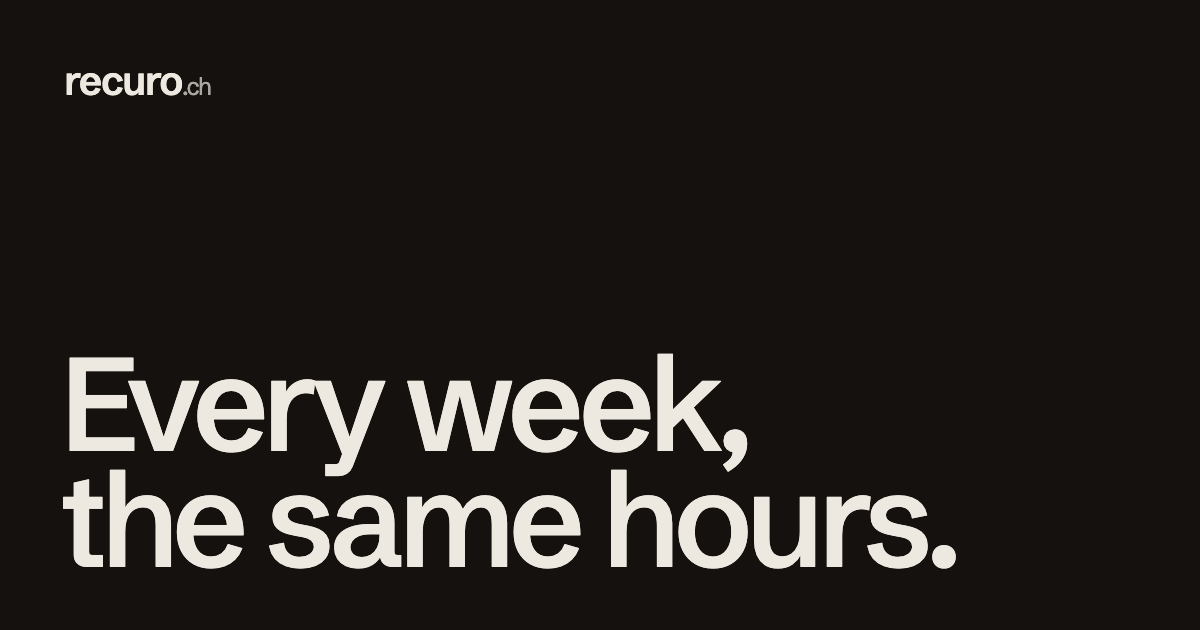
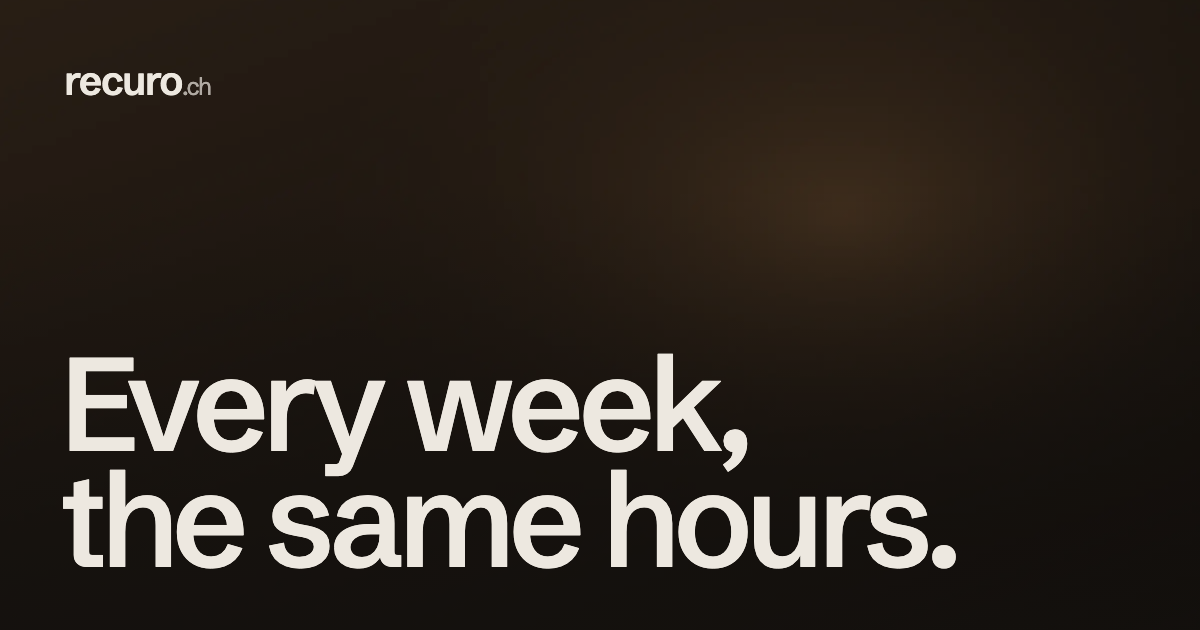
fix: read real Swiss inputs, flag unreadable fields, honest DE note, toggle a11y, block placeholder link preview

Changed region(s): [[0.5242, 0.1206, 0.8633, 0.4524]]

diff --git a/assets/js/main.js b/assets/js/main.js
@@ -11,7 +11,14 @@ let lang = pickLang(safeStorage.get('lang'), navigator.languages || [navigator.l
 const updateCalc = () => {
   if (!form || !result) return;
   const { hours, rate } = form.elements;
-  result.textContent = formatCHF(yearlyCost(parseNumber(hours.value), parseNumber(rate.value)), lang);
+  const [h, r] = [hours, rate].map((input) => {
+    const n = parseNumber(input.value);
+    // flag text we can't read; a blank field is just empty, not wrong
+    if (Number.isNaN(n) && input.value.trim()) input.setAttribute('aria-invalid', 'true');
+    else input.removeAttribute('aria-invalid');
+    return n;
+  });
+  result.textContent = formatCHF(yearlyCost(h, r), lang);
 };
 
 const render = () => {
@@ -20,8 +27,8 @@ const render = () => {
   document.querySelectorAll('[data-i18n-content]').forEach((m) => {
     m.setAttribute('content', t(STRINGS, m.getAttribute('data-i18n-content'), lang));
   });
-  // the toggle means "German": pressed exactly while DE is active
-  if (toggle) toggle.setAttribute('aria-pressed', String(lang === 'de'));
+  // the toggle is an action ("switch to the other language"); its label is read in that language
+  if (toggle) toggle.setAttribute('lang', lang === 'de' ? 'en' : 'de');
   const href = bookingHref(BOOKING_URL, CONTACT_EMAIL, lang);
   document.querySelectorAll('[data-book]').forEach((a) => a.setAttribute('href', href));
   const live = isBookingLive(BOOKING_URL);

diff --git a/assets/js/calc.js b/assets/js/calc.js
@@ -5,11 +5,18 @@ export const WEEKS = 52;
 export const DEFAULT_HOURS = 12;
 export const DEFAULT_RATE = 32;
 
-const NUMBER_RE = /^\d+(?:[.,]\d+)?$/;
+const NUMBER_RE = /^\d*[.,]?\d+$/;
+const GROUPED_RE = /^\d{1,3}(?:[.,]\d{3})+$/;
 
-// Accepts "12", "12.5" and the Swiss/German "12,5". Anything else is NaN.
+// Accepts what owners type: "12", "12,5", ".5", "CHF 32", "Fr. 32.50", "32.–", "12.5h", "12 Std.", "1'000".
+// A separator before exactly three digits is a thousands separator ("1,000" = 1000). Anything else is NaN.
 export function parseNumber(raw) {
-  const s = String(raw ?? '').trim();
+  const s = String(raw ?? '').trim()
+    .replace(/^(?:CHF|Fr\.?)\s*/i, '')
+    .replace(/[.,]?\s*[–-]+$/, '')
+    .replace(/\s*[a-zäöü.]+$/i, '')
+    .replace(/(\d)['’\s](?=\d{3}\b)/g, '$1');
+  if (GROUPED_RE.test(s)) return Number(s.replace(/[.,]/g, ''));
   return NUMBER_RE.test(s) ? Number(s.replace(',', '.')) : NaN;
 }
 

diff --git a/index.html b/index.html
@@ -34,7 +34,7 @@
       </ul>
       <a class="wordmark" href="./" aria-label="Recuro">recuro<span>.ch</span></a>
       <div class="nav-end">
-        <button class="lang-toggle" type="button" aria-pressed="false" data-i18n-aria="nav.langLabel" aria-label="Auf Deutsch lesen" hidden><span data-i18n="nav.lang">Deutsch</span></button>
+        <button class="lang-toggle" type="button" lang="de" data-i18n-aria="nav.langLabel" aria-label="Auf Deutsch lesen" hidden><span data-i18n="nav.lang">Deutsch</span></button>
         <a class="nav-book" href="mailto:TODO@recuro.ch?subject=30-minute%20call" data-book><span data-i18n="nav.book">Book a call</span> <span aria-hidden="true">→</span></a>
       </div>
     </nav>

diff --git a/assets/js/strings.js b/assets/js/strings.js
@@ -114,7 +114,7 @@ export const STRINGS = {
     en: 'AI cost per request, compared with the first version',
     de: 'KI-Kosten pro Anfrage, verglichen mit der ersten Version',
   },
-  'case.costNote': { en: 'Early numbers, being measured.', de: 'Erste Messwerte, noch vorläufig.' },
+  'case.costNote': { en: 'Early numbers, being measured.', de: 'Erste Zahlen, Messung läuft.' },
   'case.stat3.value': { en: '1,700+', de: '1700+' },
   'case.stat3.label': { en: 'automated tests, 99% coverage', de: 'automatisierte Tests, 99 % Abdeckung' },
   'case.photoAlt': { en: 'The counter of the bakery café', de: 'Die Theke des Bäckerei-Cafés' },

diff --git a/assets/css/site.css b/assets/css/site.css
@@ -161,6 +161,7 @@ input.field-v { transition: border-color 0.2s var(--ease-out); }
 input.field-v:hover { border-bottom-color: var(--paper); }
 input.field-v:focus { outline: none; border-bottom-color: var(--paper); }
 input.field-v:focus-visible { outline: 2px solid var(--paper); outline-offset: 4px; }
+input.field-v[aria-invalid='true'] { border-bottom-style: dashed; color: var(--muted); }
 .field-result .field-v { border-bottom-color: transparent; white-space: nowrap; }
 .calc-note { margin-top: 2rem; max-width: 46ch; font-size: 0.95rem; color: var(--muted); line-height: 1.6; }
 

diff --git a/404.html b/404.html
@@ -17,7 +17,7 @@
     <nav class="nav" aria-label="Main">
       <a class="wordmark" href="/" aria-label="Recuro">recuro<span>.ch</span></a>
       <div class="nav-end">
-        <button class="lang-toggle" type="button" aria-pressed="false" data-i18n-aria="nav.langLabel" aria-label="Auf Deutsch lesen" hidden><span data-i18n="nav.lang">Deutsch</span></button>
+        <button class="lang-toggle" type="button" lang="de" data-i18n-aria="nav.langLabel" aria-label="Auf Deutsch lesen" hidden><span data-i18n="nav.lang">Deutsch</span></button>
       </div>
     </nav>
   </header>

diff --git a/legal.html b/legal.html
@@ -17,7 +17,7 @@
     <nav class="nav" aria-label="Main">
       <a class="wordmark" href="/" aria-label="Recuro">recuro<span>.ch</span></a>
       <div class="nav-end">
-        <button class="lang-toggle" type="button" aria-pressed="false" data-i18n-aria="nav.langLabel" aria-label="Auf Deutsch lesen" hidden><span data-i18n="nav.lang">Deutsch</span></button>
+        <button class="lang-toggle" type="button" lang="de" data-i18n-aria="nav.langLabel" aria-label="Auf Deutsch lesen" hidden><span data-i18n="nav.lang">Deutsch</span></button>
       </div>
     </nav>
   </header>
